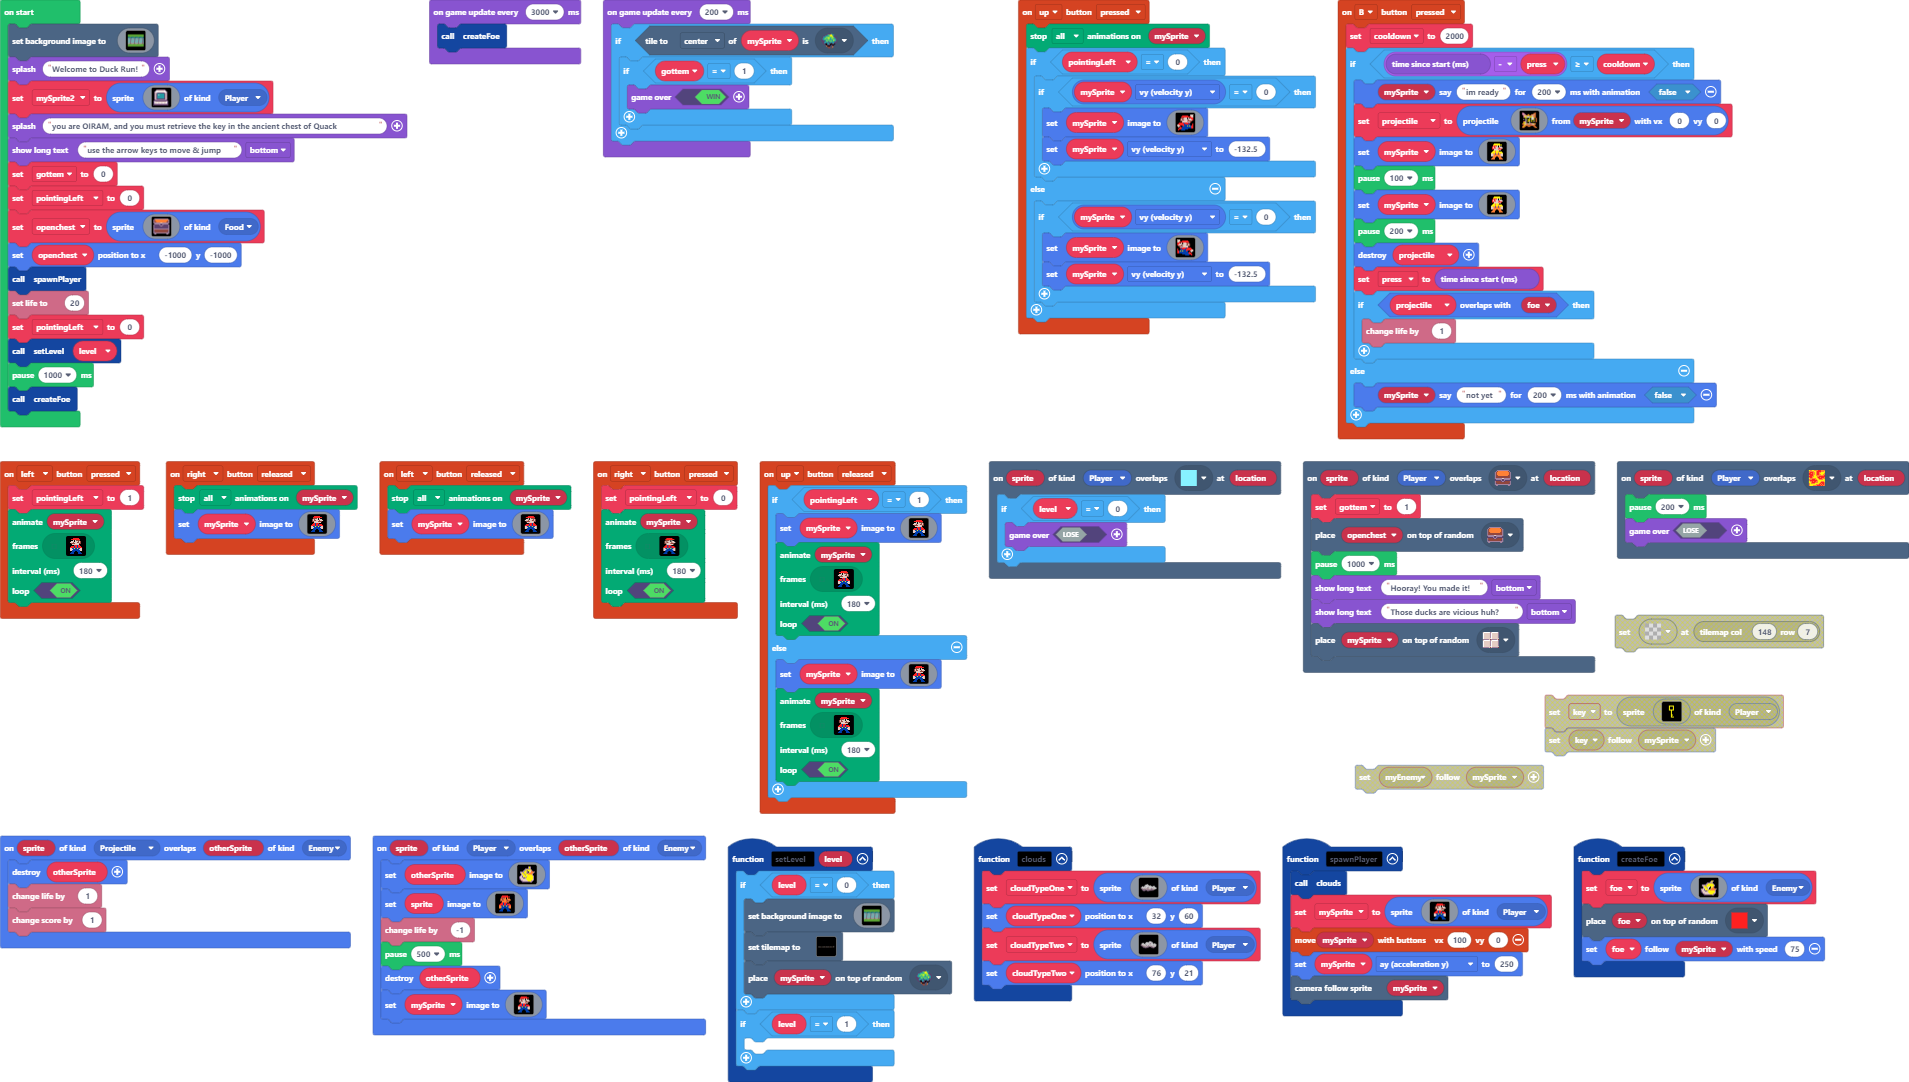
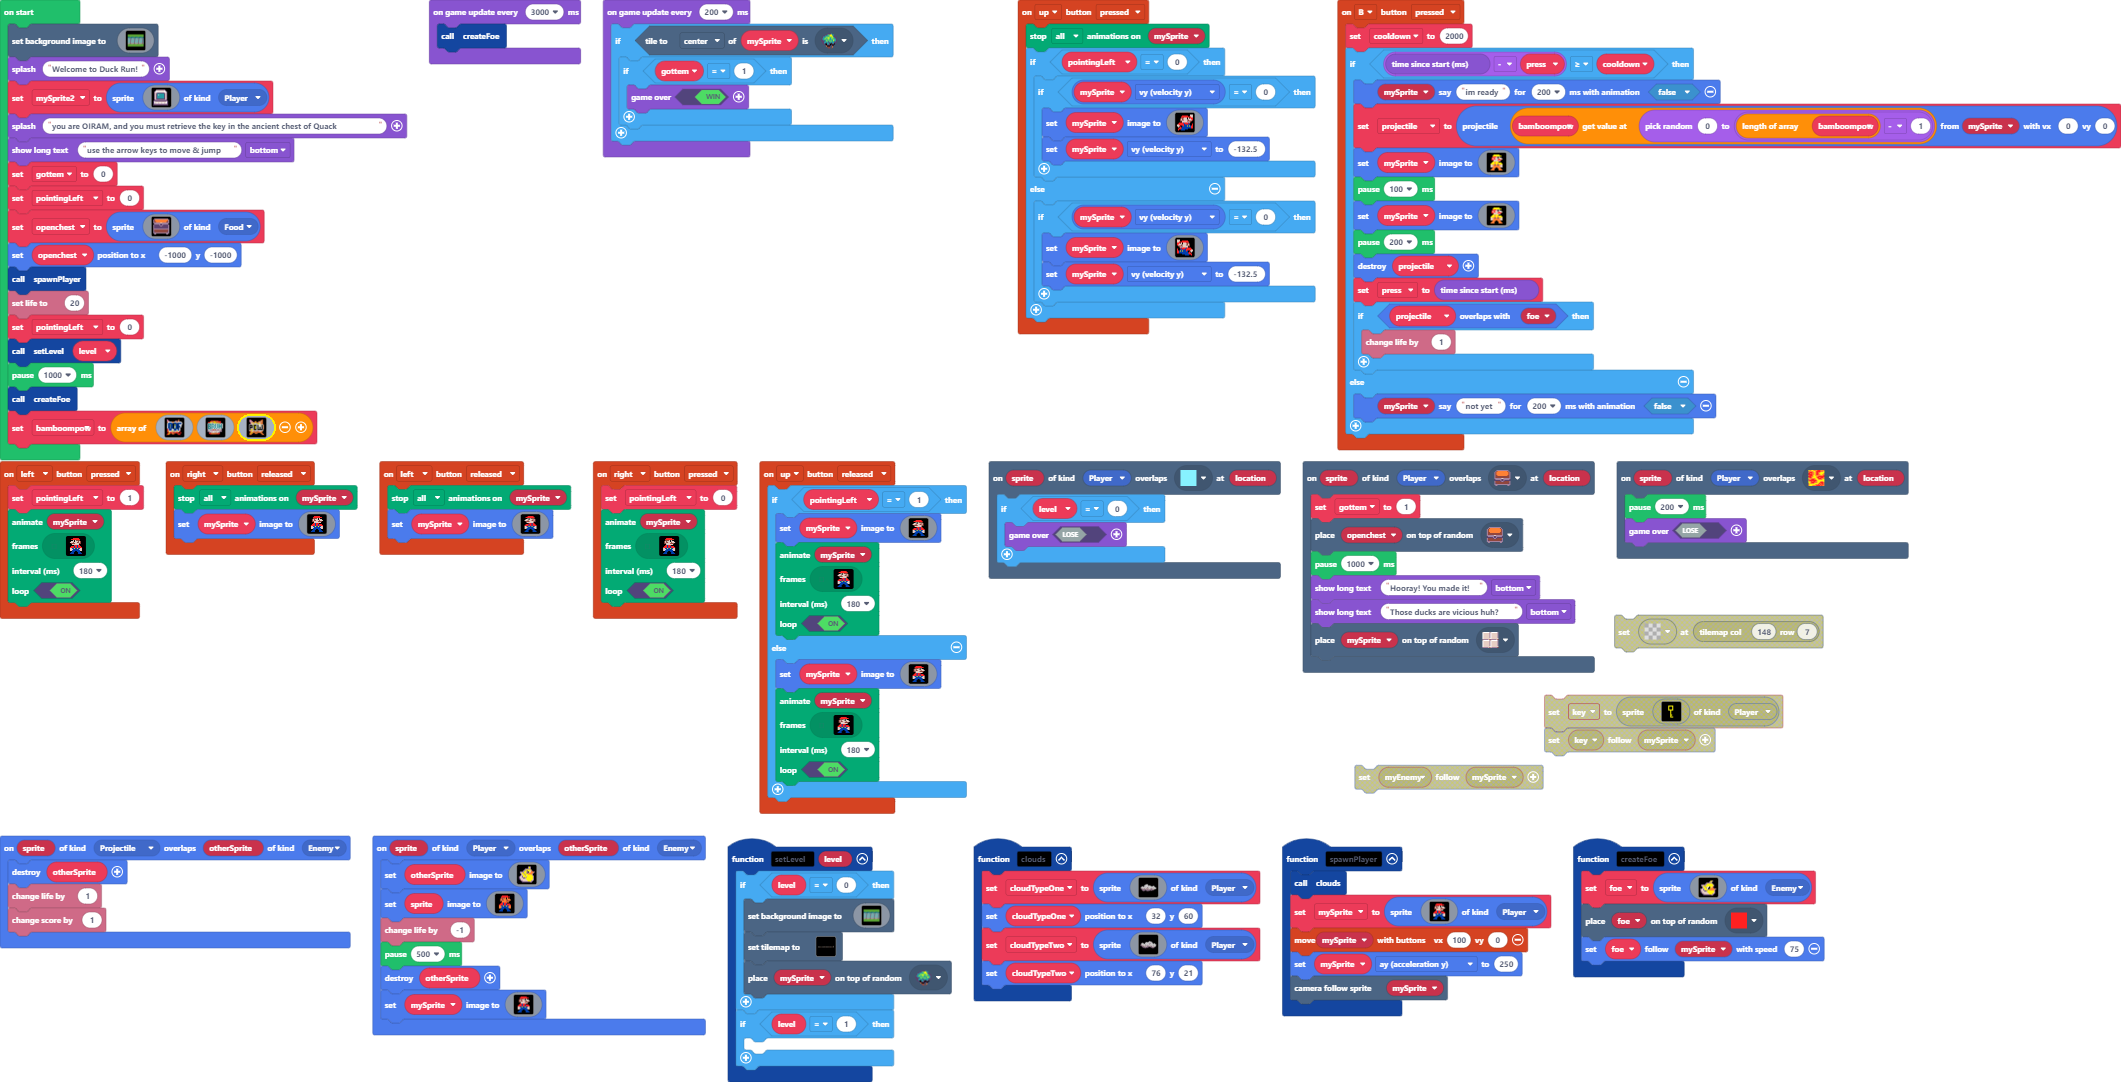
Update main.blocks, main.ts, images.g.jres, images.g.ts

diff --git a/main.ts b/main.ts
@@ -164,7 +164,7 @@ controller.B.onEvent(ControllerButtonEvent.Pressed, function () {
     cooldown = 2000
     if (game.runtime() - press >= cooldown) {
         mySprite.sayText("im ready", 200, false)
-        projectile = sprites.createProjectileFromSprite(assets.image`sabre`, mySprite, 0, 0)
+        projectile = sprites.createProjectileFromSprite(bamboompow[randint(0, bamboompow.length - 1)], mySprite, 0, 0)
         mySprite.setImage(assets.image`strapped`)
         pause(100)
         mySprite.setImage(assets.image`strapped`)
@@ -558,6 +558,7 @@ let projectile: Sprite = null
 let press = 0
 let cooldown = 0
 let mySprite: Sprite = null
+let bamboompow: Image[] = []
 let level = 0
 let openchest: Sprite = null
 let pointingLeft = 0
@@ -732,6 +733,69 @@ pointingLeft = 0
 setLevel(level)
 pause(1000)
 createFoe()
+bamboompow = [img`
+    .33...................44......
+    .33...................44......
+    .3333............33..344......
+    .3333............33..344......
+    .44d111111444411111441111111..
+    .4411111114444111114411111111.
+    ..1118888811118888811888888811
+    .11888888888ff8888888f88888811
+    .11888888888ff8888888f88888811
+    .11888858888ff8558888f8811111.
+    .11888858888ff8558888f8811111.
+    .11888858888ff8558888f881111..
+    .11888858888ff8118888f888811..
+    .11888818888ff8118888f888811..
+    .11888818888ff8118888f888811..
+    .11888818888ff8558888f8811....
+    .11888818888ff8558888f8811....
+    ...118888811888888888f8811....
+    .2233888881111888881188811....
+    .2233888881111888881188811....
+    .2233888881111888881188811....
+    .22551111155dd111115511122....
+    .22551111155dd111115511122....
+    .2222dd222dddd2443322d44......
+    ...2255222442244422222....22..
+    ...2255222442244422222....22..
+    .225544...44442......42222....
+    .225544...44442......42222....
+    22244.................2222....
+    ..............................
+    `, img`
+    ...............................
+    ...............................
+    .......22222222222222..........
+    .....224444455544444422222.....
+    .....224444455544444422222.....
+    .2222555dd4455555444444422.....
+    .2222555dd4455555444444422.....
+    .11111151111dd51155115512211...
+    166666616666111661166166116611.
+    166666616666611661166166116611.
+    166116616611661661166166116611.
+    166116616611661661166166116611.
+    166666116611661661166166666611.
+    166666116611661661166166666611.
+    166166616666611661166166116611.
+    166116616611661661166166116611.
+    166116616611661661166166116611.
+    1666666166111661166111661166...
+    1666661166111661166111111111...
+    b11111bb11224412211bbbbdddbb...
+    b11111bb11224412211bbbbdddbb...
+    bddddbbbbbbbbbbbbbbbbbbdddbb...
+    bbbdd111331111d11dd1111dbbbb...
+    bbbdd111331111d11dd1111dbbbb...
+    ...bbbbddd11113dddd11bbb.......
+    ...bbbbddd11113dddd11bbb.......
+    ...222244444444444444222.......
+    ...222244444444444444222.......
+    .....222444444444222222........
+    ...............................
+    `, assets.image`sabre`]
 game.onUpdateInterval(3000, function () {
     createFoe()
 })

diff --git a/images.g.ts b/images.g.ts
@@ -41,39 +41,6 @@ d d d . . 8 2 8 8 8 5 8 5 8 2 2
 . . . 4 4 4 . . . . 4 4 4 . . . 
 . . 4 4 4 4 . . . . 4 4 4 4 . . 
 `;
-            case "image3":
-            case "sabre":return img`
-..33.....................44...
-..3333.................4444...
-..3333.................4444...
-..33dd33....444....4444dd44...
-..33dd33....444....4444dd44...
-....335533445554444dddd4444...
-....335533445554444dddd4444...
-....33dd55dd111dd5555dd4444...
-....33dd55dd111dd5555dd4444...
-....44555511111115511115544...
-..ffffff55fffff55ff1111ddff44.
-..ffffff55fffff55ff1111ddff44.
-..ffddff11ff55f55ff111155ff44.
-..ffddff11ff55f55ff111155ff44.
-..ffffff11ff55f55ff55ff55ff44.
-..ffffff11ff55f55ff55ff55ff44.
-..ff4433ddff55fddff55ffddff44.
-..ff4433ddff55fddff55ffddff44.
-..ff5555ddfffffddffffffffff...
-..ff5555ddfffffddffffffffff...
-..445555dd3355ddd33dd555544...
-..4444dddd44ddddd4433dddd44...
-..4444dddd44ddddd4433dddd44...
-....445544444444444444444.....
-....445544444444444444444.....
-..445544....44444......4444...
-..445544....44444......4444...
-..4444...................4444.
-..4444...................4444.
-..............................
-`;
             case "image1":
             case "oiraM":return img`
 . . . . . 2 2 2 2 2 2 . . . . . 
@@ -92,6 +59,39 @@ d d d . . 8 2 8 8 8 5 8 5 8 2 2
 . . . . 8 8 8 . . 8 8 8 . . . . 
 . . . 8 8 8 . . . . 8 8 8 . . . 
 . . 8 8 8 8 . . . . 8 8 8 8 . . 
+`;
+            case "image3":
+            case "sabre":return img`
+..33.....................44...
+..3333.................4444...
+..3333.................4444...
+..33dd33....444....4444dd44...
+..33dd33....444....4444dd44...
+....335533445554444dddd4444...
+....335533445554444dddd4444...
+....33dd55dd111dd5555dd4444...
+....33dd55dd111dd5555dd4444...
+.111111115111111111111151111..
+.1ffffff15fffff11ff1111d1ff14.
+.1ffffff15fffff11ff1111d1ff14.
+.1ffddff11ff55f11ff111151ff14.
+.1ffddff11ff55f11ff111111ff14.
+.1ffffff11ff55f11ff11ff11ff14.
+.1ffffff11ff55f11ff11ff11ff14.
+.1ff111111ff55f11ff11ff11ff14.
+.1ff1433d1ff55f11ff11ff11ff14.
+.1ff1555d1fffff11ffffffffff1..
+.1ff1555d1fffff11ffffffffff1..
+.1111555d1111111111111111111..
+..4444dddd44ddddd4433dddd44...
+..4444dddd44ddddd4433dddd44...
+....445544444444444444444.....
+....445544444444444444444.....
+..445544....44444......4444...
+..445544....44444......4444...
+..4444...................4444.
+..4444...................4444.
+..............................
 `;
         }
         return null;
